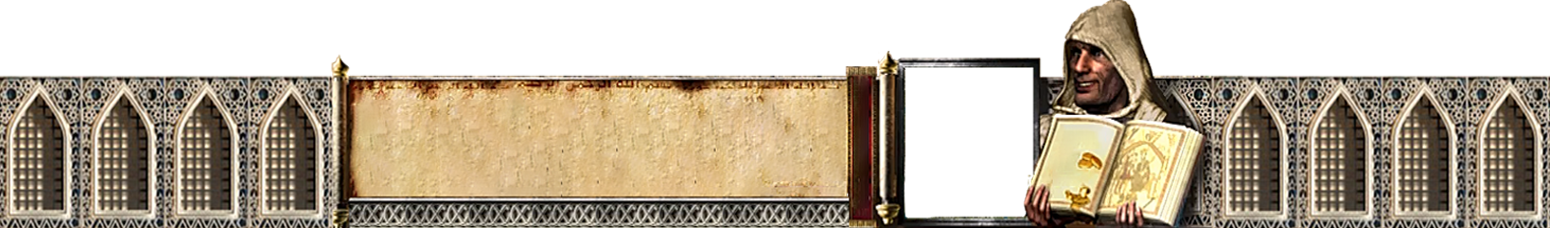
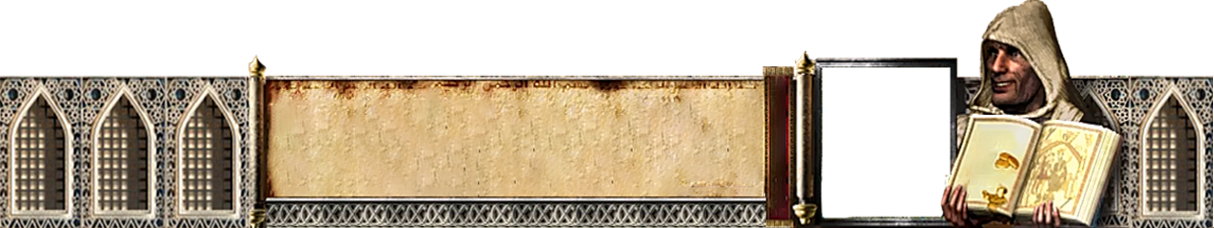
fix game menu

diff --git a/crusader/src/main/java/view/controllers/ViewController.java b/crusader/src/main/java/view/controllers/ViewController.java
@@ -6,19 +6,13 @@ import javafx.geometry.Rectangle2D;
 import javafx.scene.control.Alert;
 import javafx.scene.control.Button;
 import javafx.scene.image.Image;
-import javafx.scene.image.ImageView;
 import javafx.scene.input.KeyCombination;
 import javafx.scene.input.MouseEvent;
 import javafx.scene.layout.*;
-import javafx.scene.layout.BorderPane;
-import javafx.scene.layout.Pane;
-import javafx.scene.layout.StackPane;
 import javafx.scene.media.Media;
 import javafx.scene.media.MediaPlayer;
 import javafx.stage.Screen;
 import javafx.stage.Stage;
-import model.menugui.MenuButton;
-import model.menugui.MenuTextField;
 
 
 public class ViewController {
@@ -26,59 +20,67 @@ public class ViewController {
     public static MediaPlayer musicPlayer;
 
     //give -1 if you want full height
-    public static BorderPane makeScreen(Stage stage,BorderPane pane,double width,double height){
+    public static Pane makeScreen(Stage stage, BorderPane pane, double width, double height) {
         stage.setFullScreen(true);
         stage.setFullScreenExitKeyCombination(KeyCombination.NO_MATCH);
         //stage.setFullScreenExitHint(null);
 
         pane.setStyle("-fx-background-color: #000");
-        BorderPane borderPane = new BorderPane();
-        pane.setCenter(borderPane);
-        borderPane.setMaxWidth(width);
-        if (height != -1){
-            borderPane.setMaxHeight(height);
+        Pane newPane = new BorderPane();
+        pane.setCenter(newPane);
+        if (width > 0) {
+            newPane.setMaxWidth(width);
+            newPane.setMinWidth(width);
         }
-        borderPane.setStyle("-fx-background-color: #fff");
-        return borderPane;
+
+        if (height > 0) {
+            newPane.setMaxHeight(height);
+            newPane.setMinHeight(height);
+        }
+        newPane.setStyle("-fx-background-color: #fff");
+        return newPane;
     }
 
-    public static Pane makePaneScreen(Stage stage, Pane pane, double width, double height){
+    public static Pane makePaneScreen(Stage stage, Pane pane, double width, double height) {
         stage.setFullScreen(true);
         stage.setFullScreenExitKeyCombination(KeyCombination.NO_MATCH);
         pane.setStyle("-fx-background-color: #000");
         Pane newPane = new BorderPane();
-        if (width != -1){
+        if (width > 0) {
             newPane.setMaxWidth(width);
+            newPane.setMinWidth(width);
         }
 
-        if (height != -1){
+        if (height > 0) {
             newPane.setMaxHeight(height);
+            newPane.setMinHeight(height);
         }
         newPane.setStyle("-fx-background-color: #fff");
         pane.getChildren().add(newPane);
         return newPane;
     }
 
-    public static Pane makePaneScreen(Stage stage, BorderPane pane, double width, double height){
+    public static Pane makePaneScreen(Stage stage, BorderPane pane, double width, double height) {
         stage.setFullScreen(true);
         stage.setFullScreenExitKeyCombination(KeyCombination.NO_MATCH);
         pane.setStyle("-fx-background-color: #000");
         Pane newPane = new Pane();
         newPane.setMaxWidth(width);
-        if (height != -1){
+        if (height != -1) {
             newPane.setMaxHeight(height);
         }
         newPane.setStyle("-fx-background-color: #fff");
         pane.setCenter(newPane);
         return newPane;
     }
-    public static StackPane makeStackPaneScreen(Stage stage, BorderPane pane, double width, double height){
+
+    public static StackPane makeStackPaneScreen(Stage stage, BorderPane pane, double width, double height) {
         stage.setFullScreen(true);
         stage.setFullScreenExitKeyCombination(KeyCombination.NO_MATCH);
         pane.setStyle("-fx-background-color: #000");
         StackPane newPane = new StackPane();
         newPane.setMaxWidth(width);
-        if (height != -1){
+        if (height != -1) {
             newPane.setMaxHeight(height);
         }
         pane.setCenter(newPane);
@@ -94,7 +96,7 @@ public class ViewController {
         musicPlayer = mediaPlayer;
     }
 
-    public static void createAndShowAlert(Alert.AlertType alertType , String title , String header , String content) {
+    public static void createAndShowAlert(Alert.AlertType alertType, String title, String header, String content) {
         Alert alert = new Alert(alertType);
         alert.setTitle(title);
         alert.setHeaderText(header);
@@ -159,7 +161,7 @@ public class ViewController {
 
     }
 
-    public static double getScreenHeight(){
+    public static double getScreenHeight() {
         Screen screen = Screen.getPrimary();
         Rectangle2D bounds = screen.getVisualBounds();
         double screenHeight = bounds.getHeight();

diff --git a/crusader/src/main/java/view/menus/GameMenu.java b/crusader/src/main/java/view/menus/GameMenu.java
@@ -10,6 +10,7 @@ import javafx.scene.canvas.GraphicsContext;
 import javafx.scene.image.Image;
 import javafx.scene.image.ImageView;
 import javafx.scene.input.KeyCombination;
+import javafx.scene.layout.BorderPane;
 import javafx.scene.layout.Pane;
 import javafx.scene.paint.Color;
 import javafx.scene.shape.ArcType;
@@ -34,14 +35,13 @@ public class GameMenu extends Application {
     @Override
     public void start(Stage stage) throws Exception {
         GameMenu.stage = stage;
-        Pane pane = FXMLLoader.load(
+        BorderPane pane = FXMLLoader.load(
                 new URL(Objects.requireNonNull(LoginMenu.class.getResource("/FXML/gameMenu.fxml")).toExternalForm()));
         scene = new Scene(pane);
         stage.setScene(scene);
         stage.setFullScreen(true);
         stage.setFullScreenExitKeyCombination(KeyCombination.NO_MATCH);
-        gamePane = pane;
-
+        gamePane = ViewController.makeScreen(stage,pane,1200,800);
         createGameBar();
         stage.show();
     }
@@ -49,18 +49,18 @@ public class GameMenu extends Application {
     private void createGameBar() {
         ImageView barImage = new ImageView(new Image(LoginMenu.class.getResource
                 (Paths.BAR_IMAGES.getPath()).toExternalForm() + "bar.png"));
-        double translateYValue = ViewController.getScreenHeight() - barImage.getImage().getHeight() + 50;
+        barImage.setFitWidth(gamePane.getMaxWidth());
         barImage.setTranslateX(0);
-        barImage.setTranslateY(translateYValue);
+        barImage.setTranslateY(572);
 
         MiniMap miniMap = new MiniMap(125,147,0,0);
         gamePane.getChildren().add(miniMap);
-        miniMap.setTranslateY(translateYValue + 69);
+        miniMap.setTranslateY(500 + 69);
         miniMap.setTranslateX(906);
         gamePane.getChildren().add(barImage);
         Text hoveringButton = new Text("");
         hoveringButton.setTranslateX(375);
-        hoveringButton.setTranslateY(translateYValue + 70);
+        hoveringButton.setTranslateY(500 + 70);
         hoveringButton.setFill(Color.WHITE);
         hoveringButton.setFont(Font.font("Times New Roman", FontWeight.BOLD, 15));
         hoveringButton.setStrokeWidth(0.5);

diff --git a/crusader/src/main/java/module-info.java b/crusader/src/main/java/module-info.java
@@ -19,7 +19,6 @@ module crusader {
     exports enumeration;
     opens enumeration to com.google.gson;
 
-
     exports enumeration.dictionary;
     opens enumeration.dictionary to com.google.gson;
 
